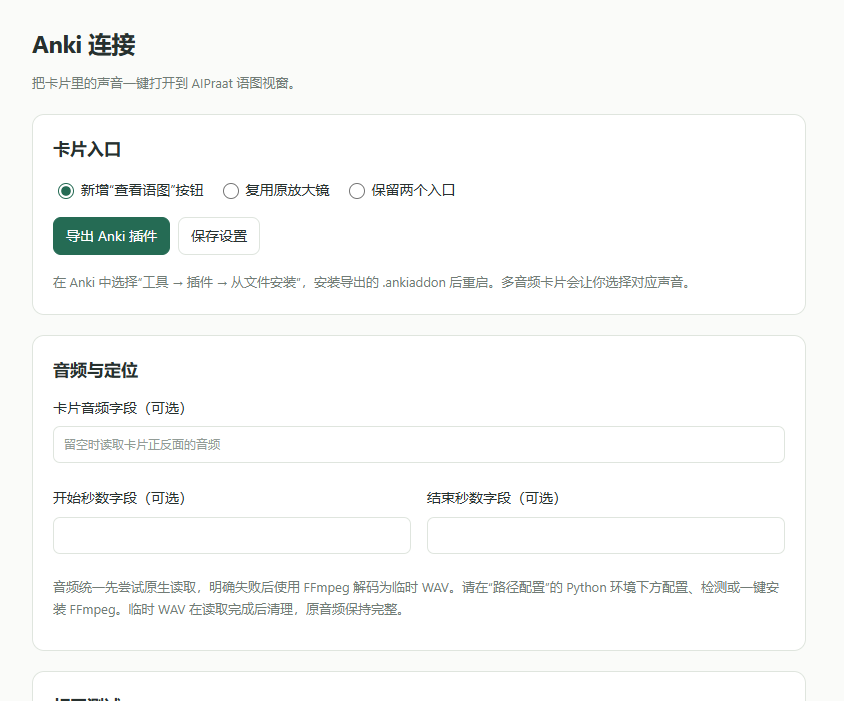
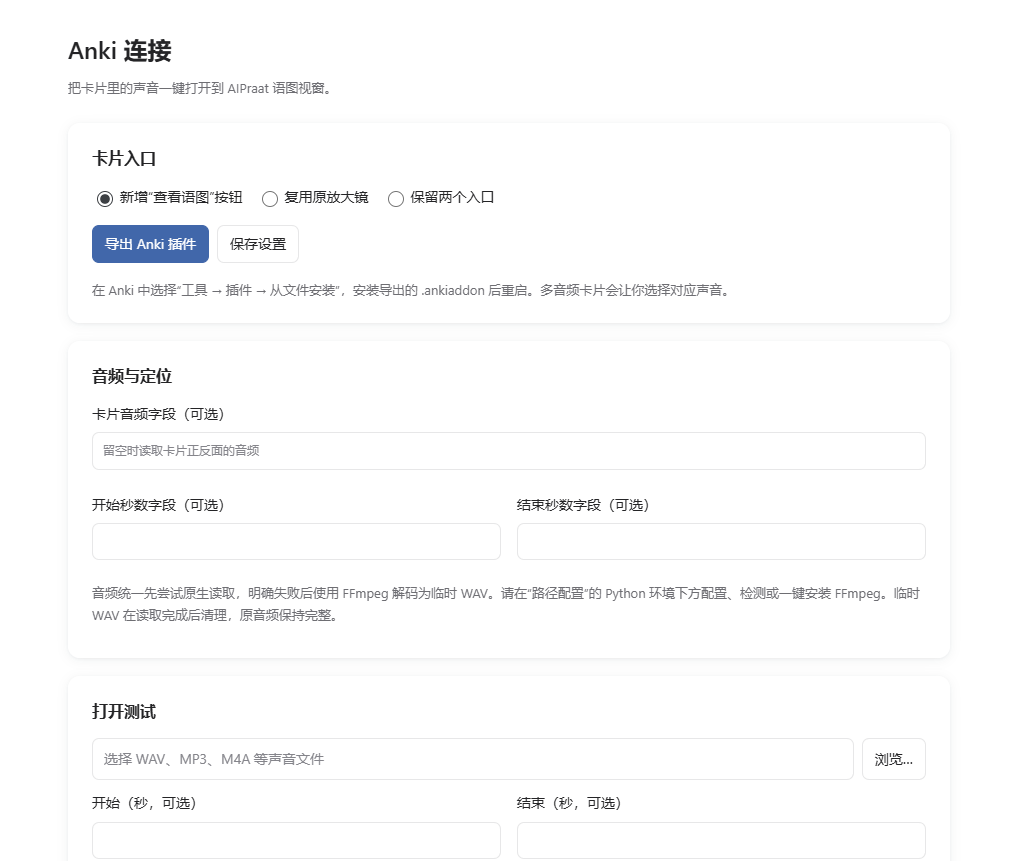
docs: refresh README screenshots for the v8.0.4 UI
Capture current production WebView2 workbench, model settings, pronunciation form and Anki connection with isolated blank configuration. Update capture notes and give the wider forms their own rows.

diff --git a/docs/pictures/aipraat/README.md b/docs/pictures/aipraat/README.md
@@ -1,13 +1,13 @@
 # 仓库介绍页图像
 
-截图日期：2026-10-14，Windows x64。使用当前工作区软件与生产构建资产，没有伪造对话、测量数字或纠音结果。
+截图日期：2026-10-17，Windows x64。四张 UI 图均重新使用 v8.0.4 的生产构建资产与真实 WebView2 宿主截图；使用独立的空白配置、会话库和公开示例音频，没有读取私人会话或密钥，也没有发送模型请求、提交分析或生成测量结果。
 
 | 文件 | 来源与捕获方式 |
 | --- | --- |
-| `ai-workbench.png` | 启动 `ai/run_ai_chat.py`，使用无 API Key 的示例配置与单独的现代会话目录；展开真实会话侧栏。通过实际桌面 WebView2 的 CDP 截取页面。软件按正常行为只读展示旧会话。 |
-| `ai-settings.png` | 同一工作台中打开“设置 → 模型”，通过实际 WebView2 的 CDP 截取页面。 |
-| `anki-connection.png` | 启动 `ai/run_anki_integration.py`，通过实际 WebView2 的 CDP 截取连接页面；没有保存设置或发送音频。 |
-| `pronunciation-form.png` | 调用生产代码 `show_tutor_form` 打开真实 Tk 表单，以现有 hello 样本作为两个输入对象，通过仓库既有 `capture_png` / PrintWindow 捕获窗口。显示默认旧式比较选项，尚未提交分析。 |
+| `ai-workbench.png` | 生产 `ModernApplication`、`HostAPI` 与会话库，展开新版侧栏；输入框内是尚未发送的示例问题，未伪造历史或回答。通过实际 WebView2 的 CDP 截取页面。 |
+| `ai-settings.png` | 同一工作台中打开“设置 → 模型 → 云端 API”；连接字段与密钥为空，没有执行连接验证或保存设置。 |
+| `anki-connection.png` | 生产 `AnkiApplication` 和新版 React 连接页，采用默认空白连接配置；没有保存设置、导出插件或发送音频。 |
+| `pronunciation-form.png` | 生产 `TutorFormApplication` 和新版 React 纠音表单，使用公开英音／美音 hello 作为两个示例对象，填写手动 IPA；未提交分析。已替换旧 Tk 表单截图。 |
 | `frontend-workflow.svg` | 根据现代宿主、执行器、工具与 AI 使用说明绘制，可直接编辑的 SVG。 |
 | `pronunciation-workflow.svg` | 根据 `tutor.py`、`pronunciation.py`、音位判据与报告实现绘制，可直接编辑的 SVG。 |
 | `backend-workflow.svg` | 与 `backend-steps.svg` 内容一致，替换原来的后端总览，兼容之前的图像链接。 |
@@ -18,9 +18,9 @@
 | `pronunciation-details.svg` | D 图：依据 `tutor.py`、`pronunciation.py`、`audio.py`、音位规则及原生 Python 桥，展开对比纠音完整调用链。 |
 | `measurement-workflow.svg` | E 图：依据 `tools.py`、`measures.tsv`、`chat.py` 展开表驱动测量与 AI VOT 的显式计算／自动估计支路。 |
 
-Computer Use 打开了 Praat，但实时窗口捕获两次超时；最终截图使用上表方法。WebView2 截图为实际桌面窗口中的页面内容，不含原生标题栏。
+WebView2 截图为真实宿主中的生产页面内容，不含原生标题栏；未使用浏览器 demo 适配器、设计原型或图片合成。页面中不包含开发机路径、私人历史或实际 API key。
 
-纠音表单中的“学习者录音”是字段名称，示例实际使用美音／英音 hello 两个样本，不能据此认为其中某个说话人的发音错误。样本出处见工作区 `test-records/ai-tutor-demo-20261013/README.md`；本目录仅分发界面截图，不分发音频。
+纠音表单中的“学习者录音”是字段名称，示例实际使用英音／美音 hello 两个样本，不能据此认为其中某个说话人的发音错误。样本出处与许可见 [AUDIO-SOURCES.md](../../../test-records/AUDIO-SOURCES.md)；本目录仅分发界面截图。
 
 2026-10-14 修订流程图：为前端回传线与执行线分配独立接口，纠音图的分流与合流分别使用明确节点或独立入口，新增后端阶梯图。所有连线贴合节点边界；渲染检查文字溢出及连线穿字。
 

diff --git a/README.md b/README.md
@@ -48,12 +48,11 @@
 
 纠音表单选择标准音与学习者录音，填写目标音位；Anki 连接页提供卡片入口与插件导出。
 
-<p align="center">
-  <img src="docs/pictures/aipraat/pronunciation-form.png" width="39%" alt="实际纠音表单：标准音、学习者录音、音位与判据选择" />
-  <img src="docs/pictures/aipraat/anki-connection.png" width="59%" alt="实际 Anki 连接页：卡片入口、插件导出和音频定位字段" />
-</p>
+![新版纠音表单：录音对象、发音目标与分析摘要](docs/pictures/aipraat/pronunciation-form.png)
 
-截图取自 2026-10-14 打开的 Windows 软件界面。纠音图展示输入表单；截图来源与捕获方式见[图像说明](docs/pictures/aipraat/README.md)。
+![新版 Anki 连接页：卡片入口、插件导出和音频定位字段](docs/pictures/aipraat/anki-connection.png)
+
+截图更新于 2026-10-17，取自新版生产前端与真实 WebView2 宿主，使用独立配置和示例输入，未发送模型请求或提交纠音分析。截图来源与捕获方式见[图像说明](docs/pictures/aipraat/README.md)。
 
 ## AI 对话后端流程总览
 
